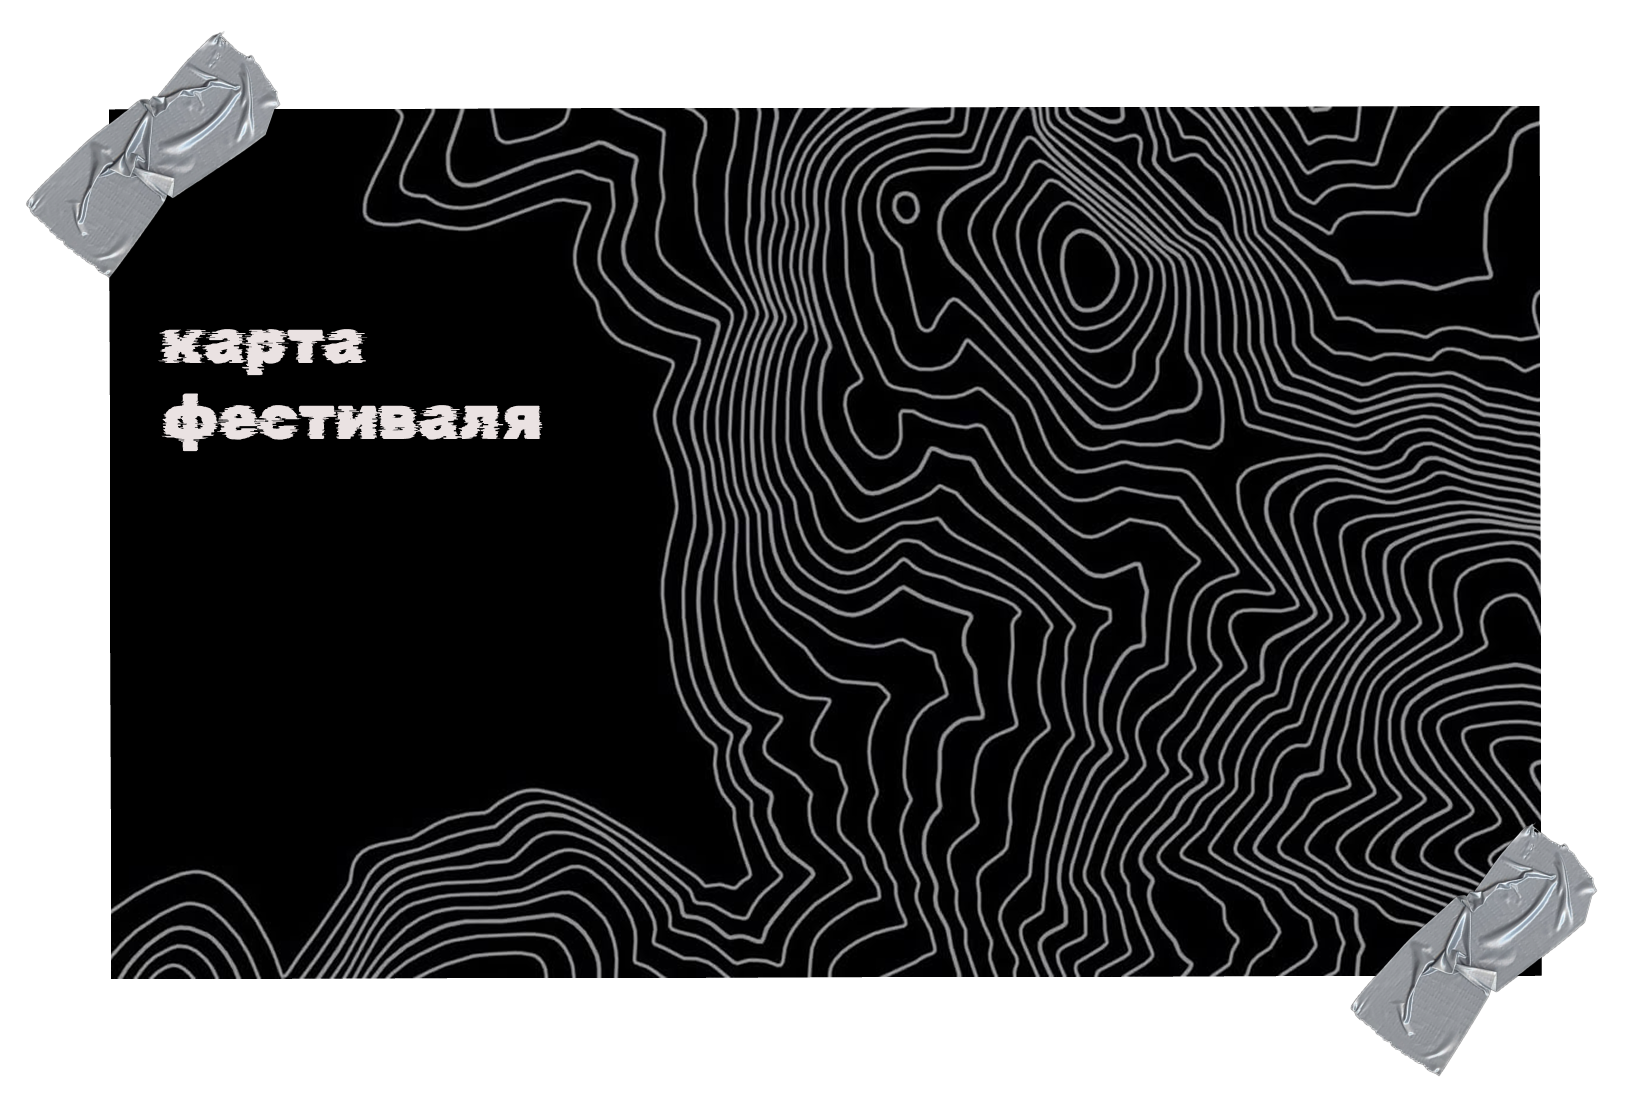
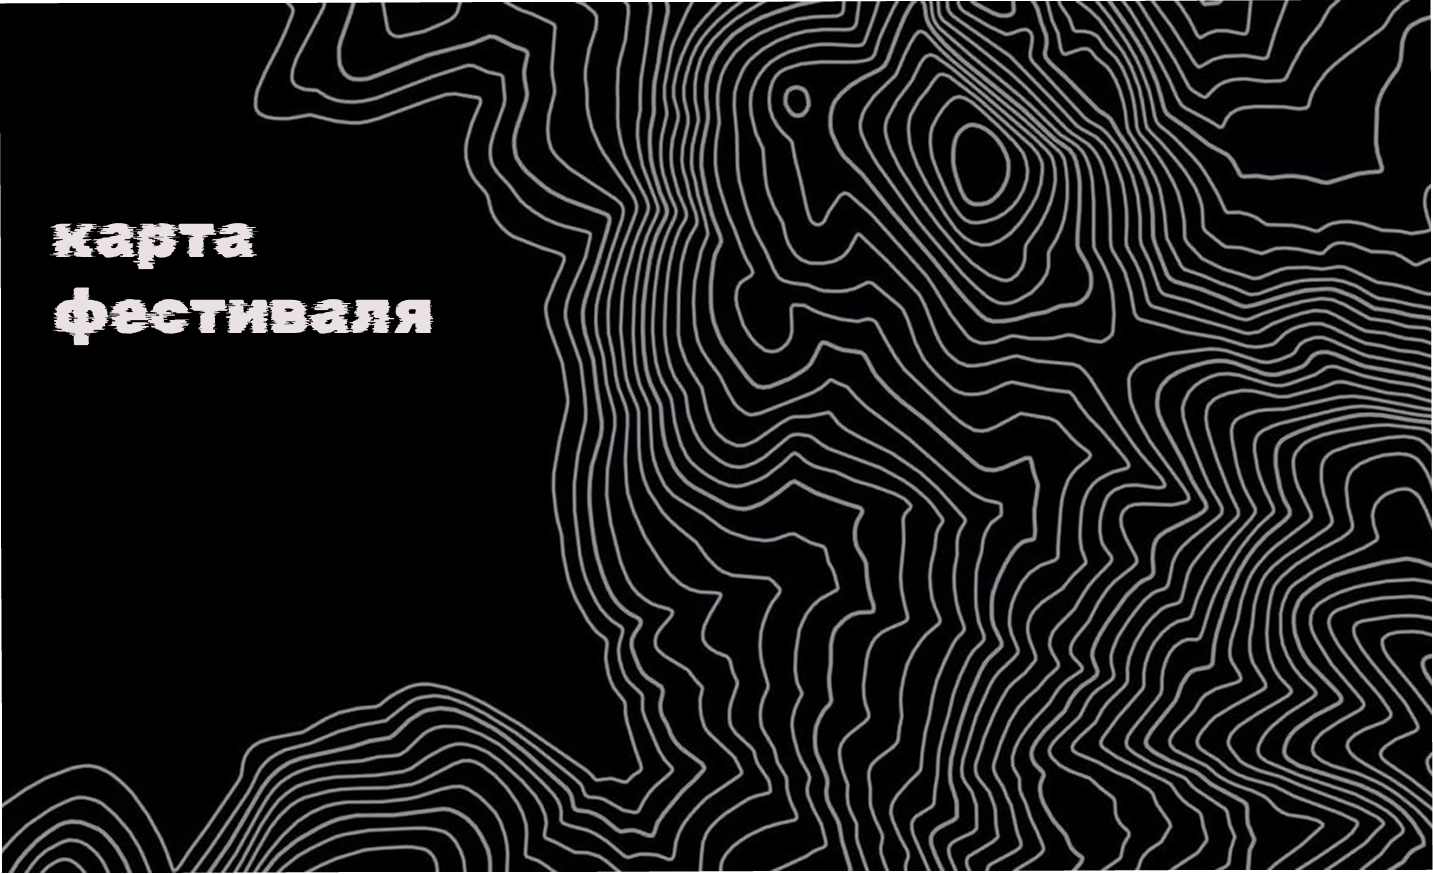
финал

diff --git a/stylesheets/style.css b/stylesheets/style.css
@@ -200,7 +200,7 @@ svg {
 
 .sec-div {
     height: 80%;
-    width: 80%;
+    width: 85%;
     background: url(../images/map.png);     
     background-position: center;
     background-size: cover;
@@ -212,30 +212,20 @@ svg {
     display: none;
 }
 
-.place_figure, .place_material, .gift, .book {
+.place_figure, .place_material {
     position: absolute;
     height: 125px;
     z-index: 10;
 }
-.place_figure, .gift {
+.place_figure{
     left: 62%;
     top: 25%;
 }
-.place_material, .book {
+.place_material{
     left: 50%;
     top: 52%;
 }
-.book {
-    height: 50px;
-    left: 51.6%;
-    top: 56.2%;
-}
-.gift {
-    left: 63.6%;
-    top: 29%;
-    height: 50px;
-    z-index: 100;
-}
+
 
 /* Третий блок */
 .thr {
@@ -599,4 +589,27 @@ svg {
     .six{
         padding-top: 300px;
     }
+  }
+  @media (max-width: 380px) {
+    .fiv {
+        padding-top: 500px;
+    }
+  }
+
+  /* Скотч на карте */
+  #tape_1, #tape_2 {
+    position: absolute;
+    height: 100px;
+    rotate: -60deg;
+  }
+  #tape_1 {
+    left: 3%;
+    top: 10%;
+
+  }
+
+  #tape_2 {
+    right: 3%;
+    bottom: 10%;
+    rotate: -50deg;
   }

diff --git a/javascript/index.js b/javascript/index.js
@@ -183,13 +183,13 @@ document.querySelectorAll(".convert_button").forEach(button => {
                     combined = data[0] + data[1]
                     switch (combined){
                         case "duckwood":
-                            document.querySelector(".final-img").src = "../images/";
+                            document.querySelector(".final-img").src = "images/wood/duck_wood.png";
                             break;
                         case "duckiron":
                             document.querySelector(".final-img").src = "images/silver/ducks.png";
                             break;
                         case "duckstone":
-                            document.querySelector(".final-img").src = "";
+                            document.querySelector(".final-img").src = "images/stone/duckStone.png";
                             break;
                         case "blotwood":
                             document.querySelector(".final-img").src = "images/wood/blotwood.png";

diff --git a/Index.html b/Index.html
@@ -39,13 +39,13 @@
             <h1>Карта фестиваля</h1>
             <div class="map">
                 <a href="#figure">
-                    <img src="images/place.png" class="place_figure"/>
-                    <img src="images/gift.png" class="gift"/>
+                    <img src="images/place_dift.png" class="place_figure"/>
                 </a>
                 <a href="#material">
-                    <img src="images/place.png" class="place_material"/>
-                    <img src="images/book.png" class="book" />
+                    <img src="images/place_book.png" class="place_material"/>
                 </a>
+                <img src="images/tape.png" id="tape_1"/>
+                <img src="images/tape.png" id="tape_2"/>
             </div>
         </div>
     </div>
